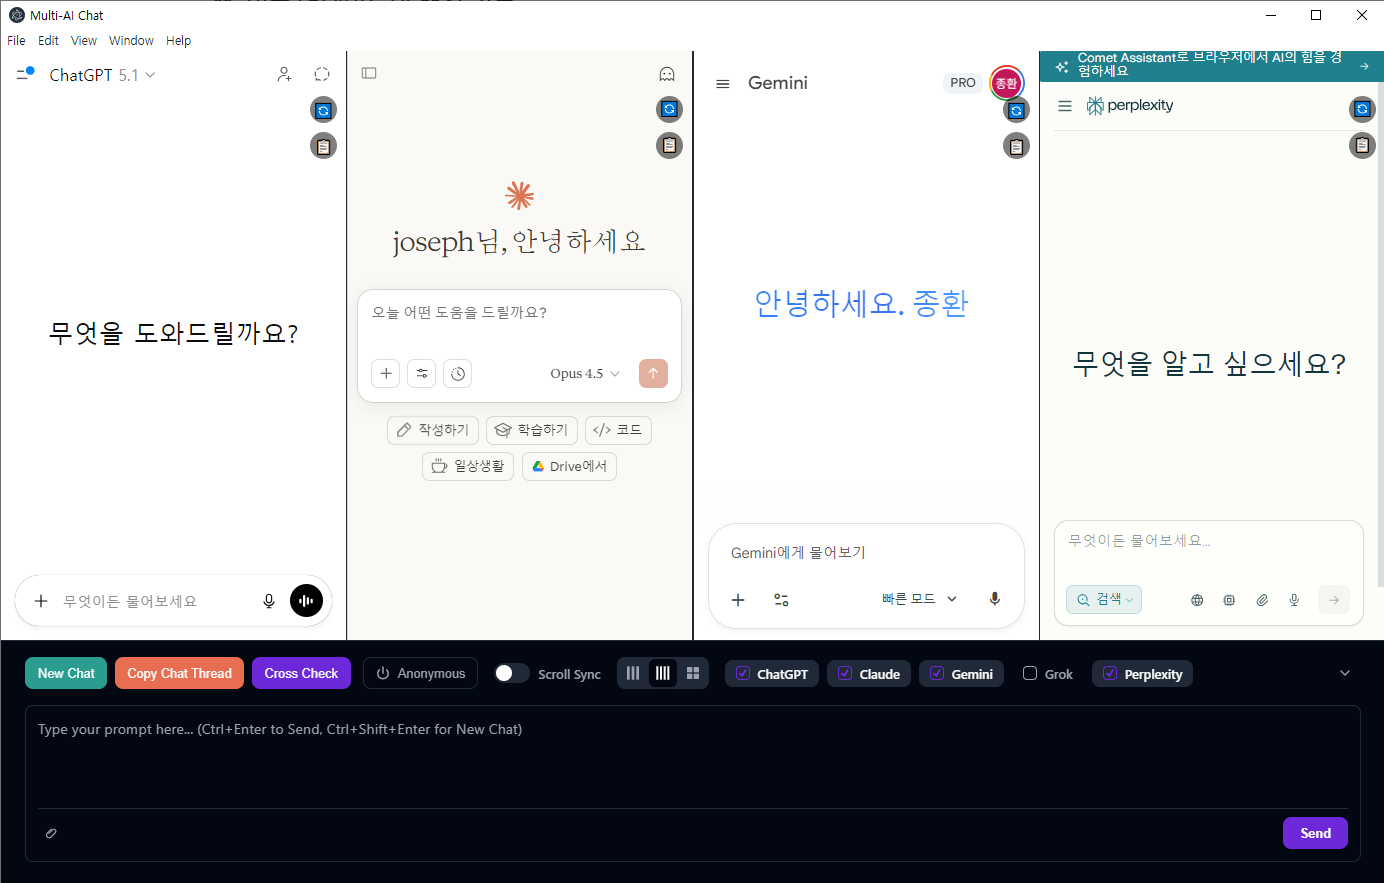
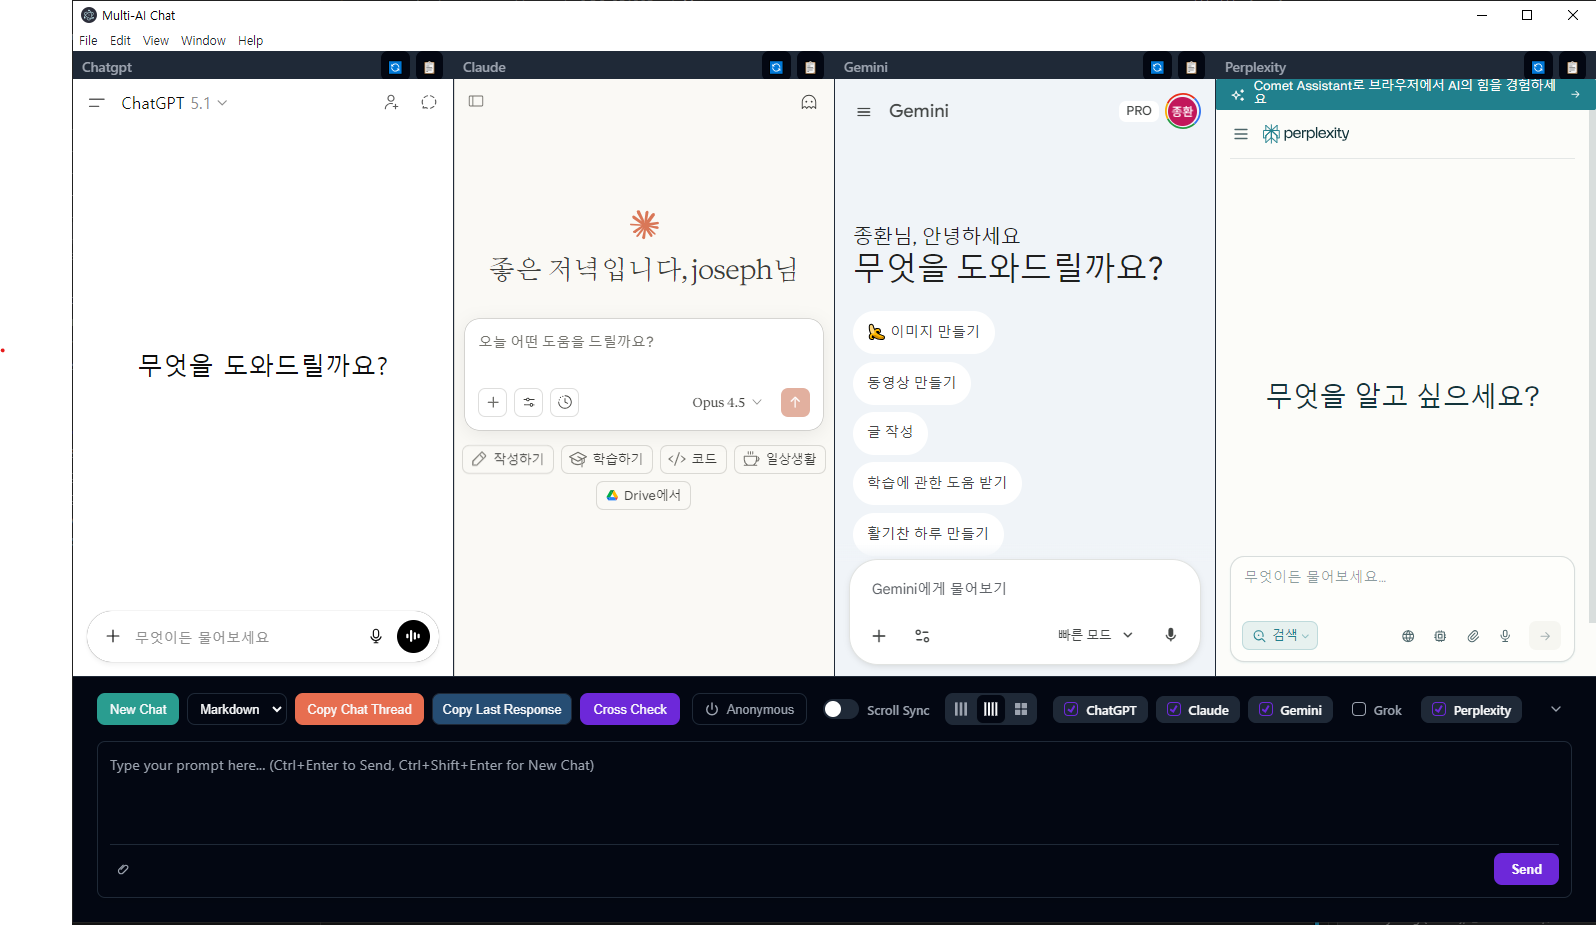
feat(v0.5.3): Copy Last Response, per-service header bar, and docs update
- Add Copy Last Response button to copy last AI response from all active services
- Add per-service header bar (28px) with service name, reload and copy buttons
- Remove old overlay floating buttons from service-preload.js
- Update RELEASE_NOTES.md with new features
- Update README.md with Copy Last Response and header bar descriptions
- Update blog post with v0.5.3 new features
- Update SRS v0.9.0 with COPY-010 (header bar), COPY-013/014 (Copy Last Response)

diff --git a/README.md b/README.md
@@ -31,7 +31,9 @@ This application allows you to enter a prompt once in a **Master Input** field a
 -   **Service Toggling**: Easily enable or disable specific AI services.
 -   **Session Persistence**: Automatically saves your login state (cookies/local storage) so you don't have to log in every time.
 -   **Advanced Layouts**: Support for **1x4** (Horizontal) and **2x2** (Grid) layouts with **resizable panels**.
--   **Copy Chat Thread**: One-click copy of all chat threads to clipboard for easy sharing or saving.
+-   **Copy Chat Thread**: One-click copy of all chat threads to clipboard with proper Markdown formatting (role distinction with `## 👤 User` and `## 🤖 [Service Name]`).
+-   **Copy Last Response**: Copy only the last AI response from all active services for quick comparisons.
+-   **Per-Service Header Bar**: Each service panel has a header bar with the service name and quick-access **Reload (🔄)** and **Copy (📋)** buttons.
 -   **Cross Check**: Click the "Cross Check" button to open a modal with options: use an editable predefined comparison prompt or create custom prompts for cross-referencing AI answers. Save up to 10 custom prompts for reuse.
 -   **Anonymous Cross Check**: Option to hide AI service names (replaced with aliases A, B, C...) during cross-checking to reduce bias.
 -   **File Upload**: Attach images or text files to your prompt and broadcast them to all supported services (except Grok). Supports **Drag & Drop** and **Clipboard Paste**.
@@ -94,9 +96,12 @@ This application allows you to enter a prompt once in a **Master Input** field a
     -   Use **Ctrl+Enter** to force send.
     -   Use **Ctrl+Shift+Enter** or click the **New Chat** button to start a new conversation in all active panels.
 3.  **Advanced Features**:
-    -   **Copy Chat Thread**: Click the **Copy Chat Thread** button to copy the entire conversation history from all active panels to your clipboard.
+    -   **Copy Chat Thread**: Click the **Copy Chat Thread** button to copy the entire conversation history from all active panels to your clipboard with proper Markdown formatting.
+    -   **Copy Last Response**: Click the **Copy Last Response** button to copy only the last AI response from each active service.
     -   **Cross Check**: Click the **Cross Check** button to have each AI review the answers provided by the other AIs.
-    -   **Individual Copy**: Use the floating copy button (📋) in each panel to copy just that service's thread.
+    -   **Per-Service Header**: Each panel has a header bar with the service name and quick-access buttons:
+        -   🔄 **Reload**: Refresh only that specific service panel.
+        -   📋 **Copy**: Copy that service's full chat thread with Markdown formatting.
 4.  **File Upload**:
     -   **Attach Files**: Click the **Clip** icon or **Drag & Drop** files into the input area.
     -   **Paste Images**: Paste images directly from your clipboard.

diff --git a/spec/Multi-AI-Chat-SRS-Unified.md b/spec/Multi-AI-Chat-SRS-Unified.md
@@ -2,8 +2,8 @@
 ## Software Requirements Specification (SRS)
 ### EARS (Easy Approach to Requirements Syntax) 기반 통합 요구사항 명세서
 
-**문서 버전**: 0.8.0 (Cross Check 사용자 프롬프트 추가 및 개선)  
-**작성일**: 2025-12-04  
+**문서 버전**: 0.9.0 (Copy Last Response 및 서비스별 헤더 바 추가)  
+**작성일**: 2025-12-05  
 **프로젝트명**: Multi-AI Chat (코드명: MAPB - Multi AI Prompt Broadcaster / Clash of LLMs)
 
 ---
@@ -718,9 +718,12 @@ The system shall support multiple output formats selectable by the user:
 **[Event-Driven]**
 When the copy operation completes, the system shall display a granular status message (e.g., "ChatGPT: Success, Claude: Failed") via a toast or status bar, instead of a generic "Copied!" message.
 
-#### COPY-010: 개별 패널 복사 버튼
+#### COPY-010: 서비스별 헤더 바 (Per-Service Header Bar)
 **[Ubiquitous]**
-The system shall display a floating "Copy" button below the "Reload" button in each Service Panel. Clicking this button shall copy only that specific service's chat thread using the Hybrid Extraction Strategy.
+The system shall display a fixed header bar (28px height) at the top of each Service Panel, above the BrowserView. The header bar shall contain:
+- The **service name** on the left side.
+- **Reload (🔄)** and **Copy (📋)** buttons on the right side.
+Clicking the Copy button shall extract that specific service's full chat thread using the same Markdown formatting as the main "Copy Chat Thread" feature (with `## 👤 User` and `## 🤖 [Service Name]` headings).
 
 #### COPY-011: 익명 모드 (Anonymous Mode)
 **[Optional]**
@@ -729,6 +732,19 @@ Where "Anonymous Mode" is enabled, the system shall replace service names with a
 #### COPY-012: 포맷 선택 UI
 **[Ubiquitous]**
 The system shall provide a UI mechanism (e.g., dropdown or settings) to allow the user to select the desired copy format (Markdown, JSON, Text).
+
+#### COPY-013: Copy Last Response 버튼
+**[Ubiquitous]**
+The system shall display a "Copy Last Response" button in the control panel, adjacent to the "Copy Chat Thread" button.
+
+#### COPY-014: Copy Last Response 기능
+**[Event-Driven]**
+When the user clicks the "Copy Last Response" button, the system shall:
+1. Extract only the **last AI response** from each currently active Service Panel.
+2. Format the combined responses according to the selected format (Markdown/JSON/Text).
+3. Apply Anonymous mode aliases if enabled.
+4. Write the formatted content to the system clipboard.
+5. Display a granular status message indicating success/failure for each service.
 
 ---
 

diff --git a/RELEASE_NOTES.md b/RELEASE_NOTES.md
@@ -12,6 +12,17 @@
         - **Gemini**: Uses `user-query` and `model-response` custom elements
         - **Grok**: Uses `div[id^="response-"]` with `items-end`/`items-start` class for role distinction
         - **Perplexity**: Uses `[class*="query"]` and `.prose` patterns with alternating message detection
+*   **Copy Last Response Button**:
+    *   Added a new "Copy Last Response" button in the control panel.
+    *   Copies the **last AI response only** from all currently active services simultaneously.
+    *   Useful for quick comparisons without including full conversation history.
+    *   Respects format selection (Markdown/JSON/Text) and Anonymous mode.
+*   **Per-Service Header Bar with Buttons**:
+    *   Each AI service panel now has a **dedicated header bar** (28px) above the BrowserView.
+    *   The header displays the **service name** on the left side.
+    *   **Reload (🔄)** and **Copy (📋)** buttons are positioned on the right side of the header.
+    *   The Copy button extracts the full chat thread using the same enhanced Markdown formatting as the main "Copy Chat Thread" button.
+    *   Removed old overlay-style floating buttons that were injected into the BrowserView.
 
 ### 🔧 Fixes & Improvements
 *   **Grok Cross Check Fix**: Updated `lastResponseSelector` to correctly extract the last AI response from Grok using `div[id^='response-'].items-start:last-of-type .response-content-markdown`.
